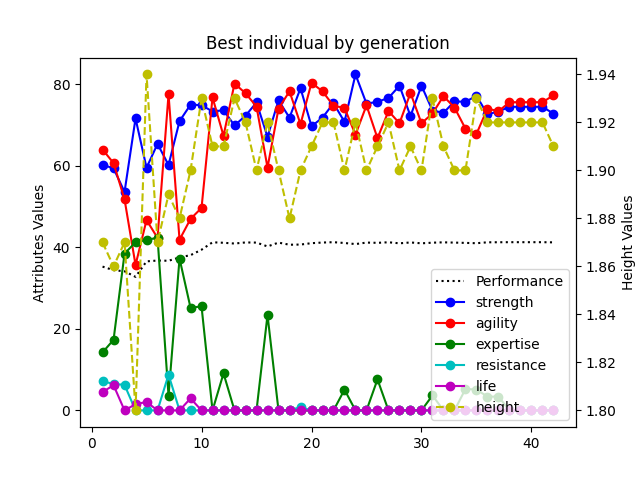
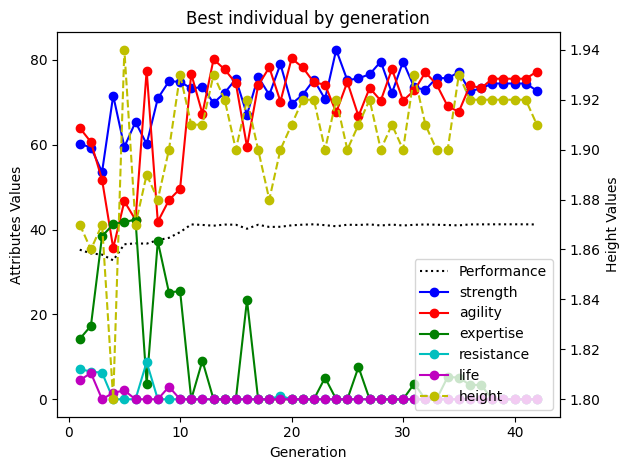
Fix xlabel on evolution graphs

Changed region(s): [[0.0, 0.0298, 0.9952, 0.983]]

diff --git a/results.py b/results.py
@@ -205,7 +205,7 @@ def show_best_evolution_one(filename):
         for generation in all_generations:
             generations_data[generation["generation"]] = (generation['best']['performance'], generation['best']['variables'])
 
-    plt.figure()
+    plt.figure()  # Adjust the size of the figure
     ax1 = plt.subplot()
     ax2 = ax1.twinx()
 
@@ -230,15 +230,15 @@ def show_best_evolution_one(filename):
     for variable, values in list(variables_by_generation.items())[-1:]:
         ax2.plot(list(generations_data.keys()), values, '--o', label=variable, color=colors[i]) 
 
-
-    plt.xlabel('Generation')
     ax1.set_ylabel('Attributes Values')
     ax2.set_ylabel('Height Values')
     lines, labels = ax1.get_legend_handles_labels()
     lines2, labels2 = ax2.get_legend_handles_labels()
     ax2.legend(lines + lines2, labels + labels2)
     plt.title('Best individual by generation')
-    plt.savefig(f'graphs/best_evolution_one_{class_names[CLASS_TO_USE_INDEX]}.png')
+    ax1.set_xlabel('Generation') 
+    plt.tight_layout()
+    plt.savefig(f'graphs/best_evolution_one_{class_names[CLASS_TO_USE_INDEX]}.png', bbox_inches='tight')
 
 
 def show_best_evolution(foldername):
@@ -299,13 +299,13 @@ def show_best_evolution(foldername):
             ax2.plot(list(generations_data.keys()), values, '--o', label=variable, color=colors[i]) 
 
 
-        plt.xlabel('Generation')
         ax1.set_ylabel('Attributes Values')
         ax2.set_ylabel('Height Values')
         lines, labels = ax1.get_legend_handles_labels()
         lines2, labels2 = ax2.get_legend_handles_labels()
         ax2.legend(lines + lines2, labels + labels2)
         plt.title(f'Best individual by generation for {class_name}')
+        ax1.set_xlabel('Generation')
         plt.savefig(f'graphs/best_evolution_{foldername}_{class_name}.png')
 
 
